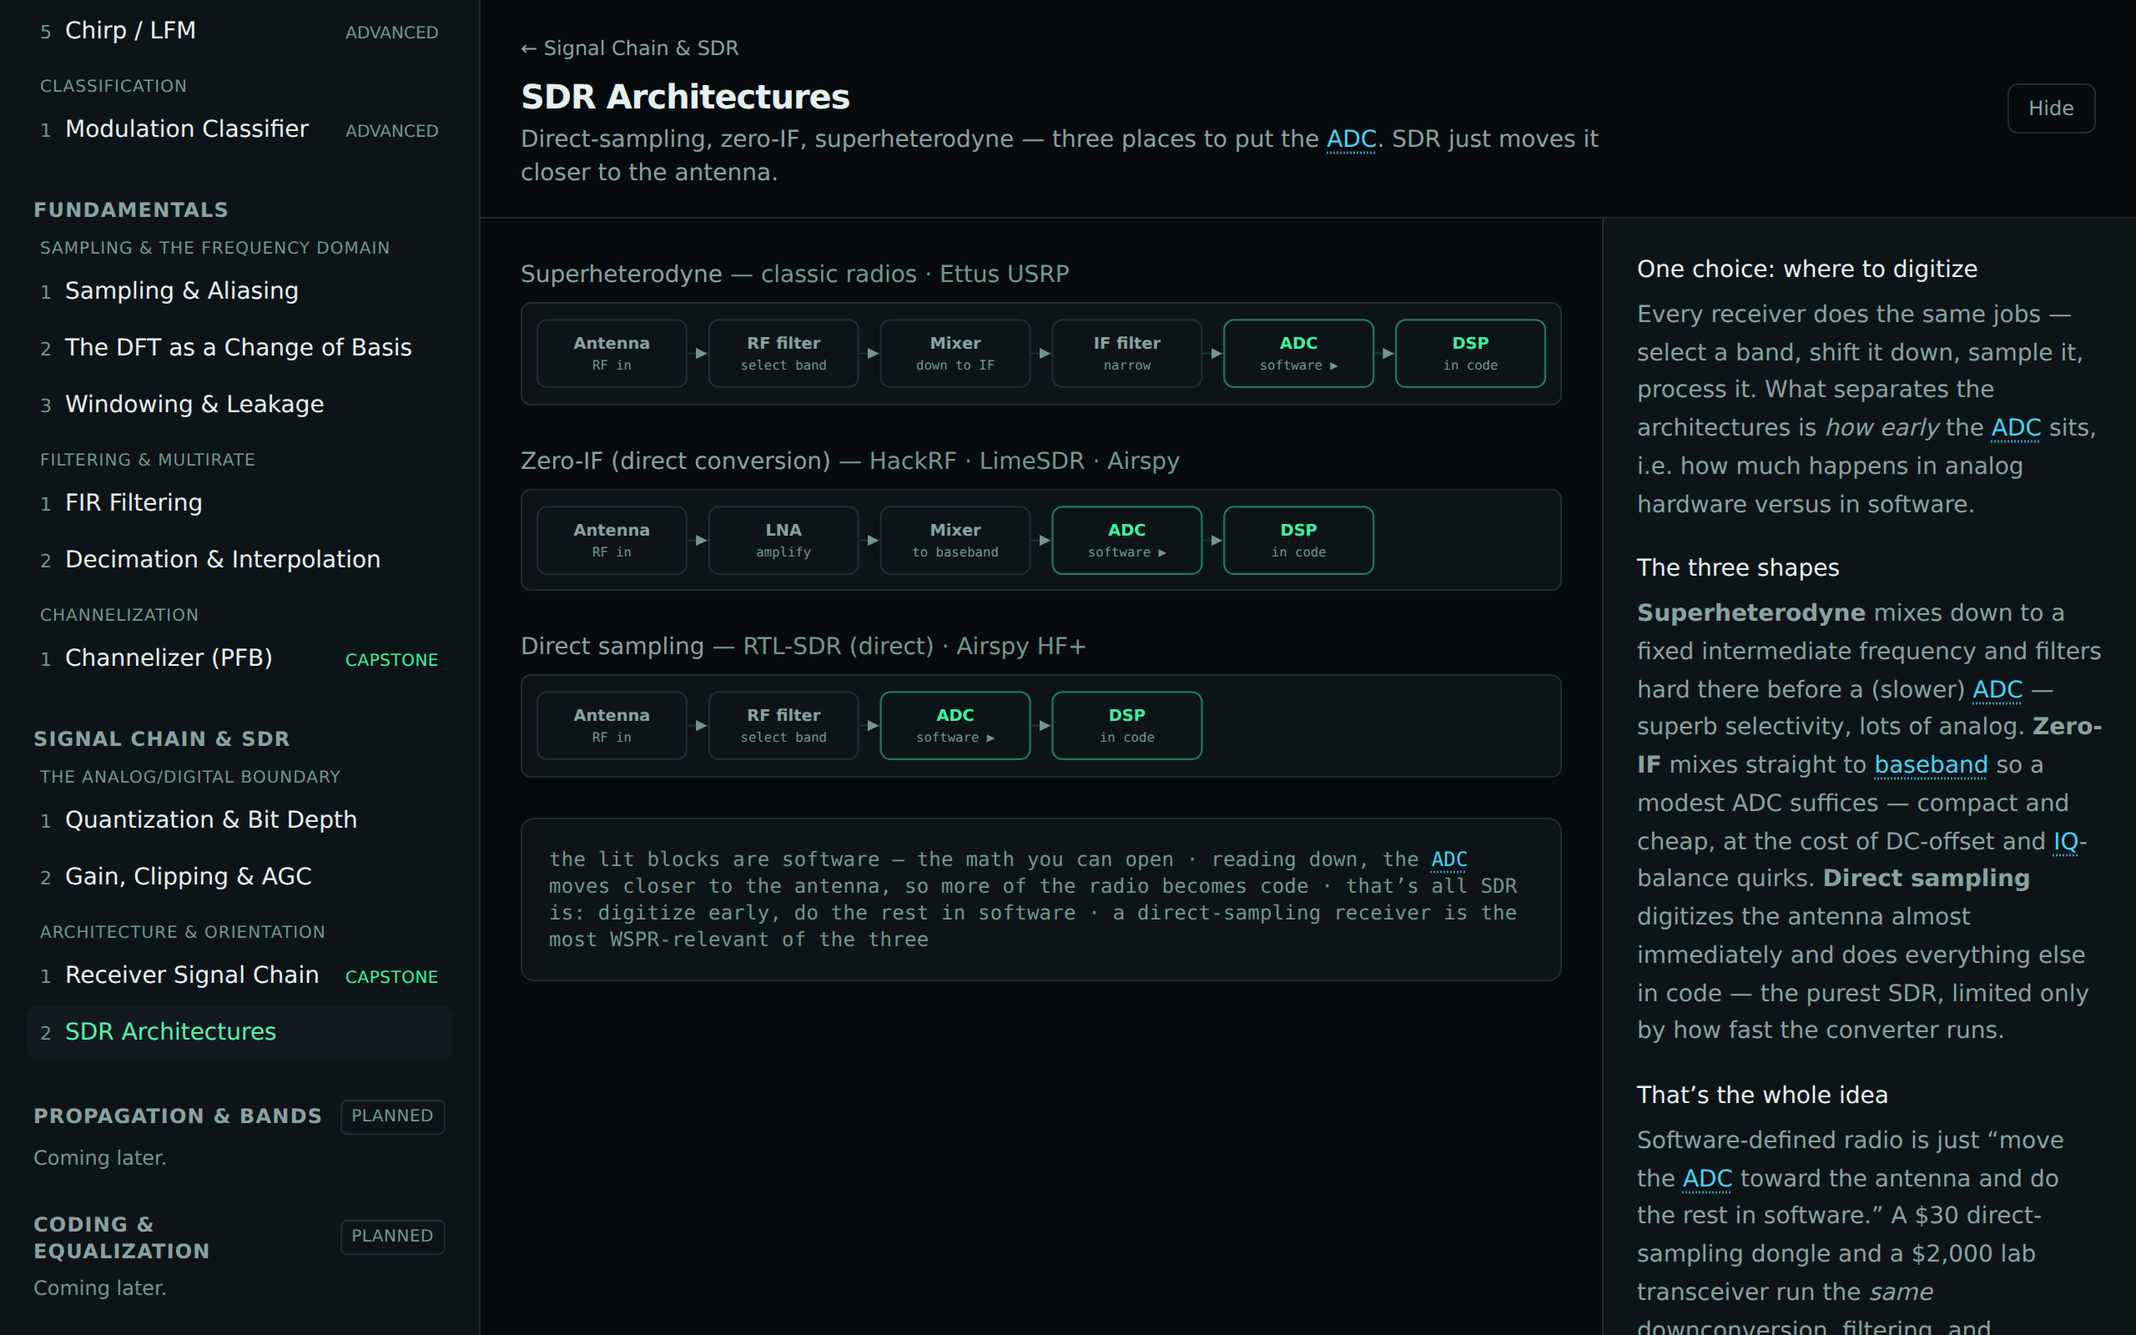
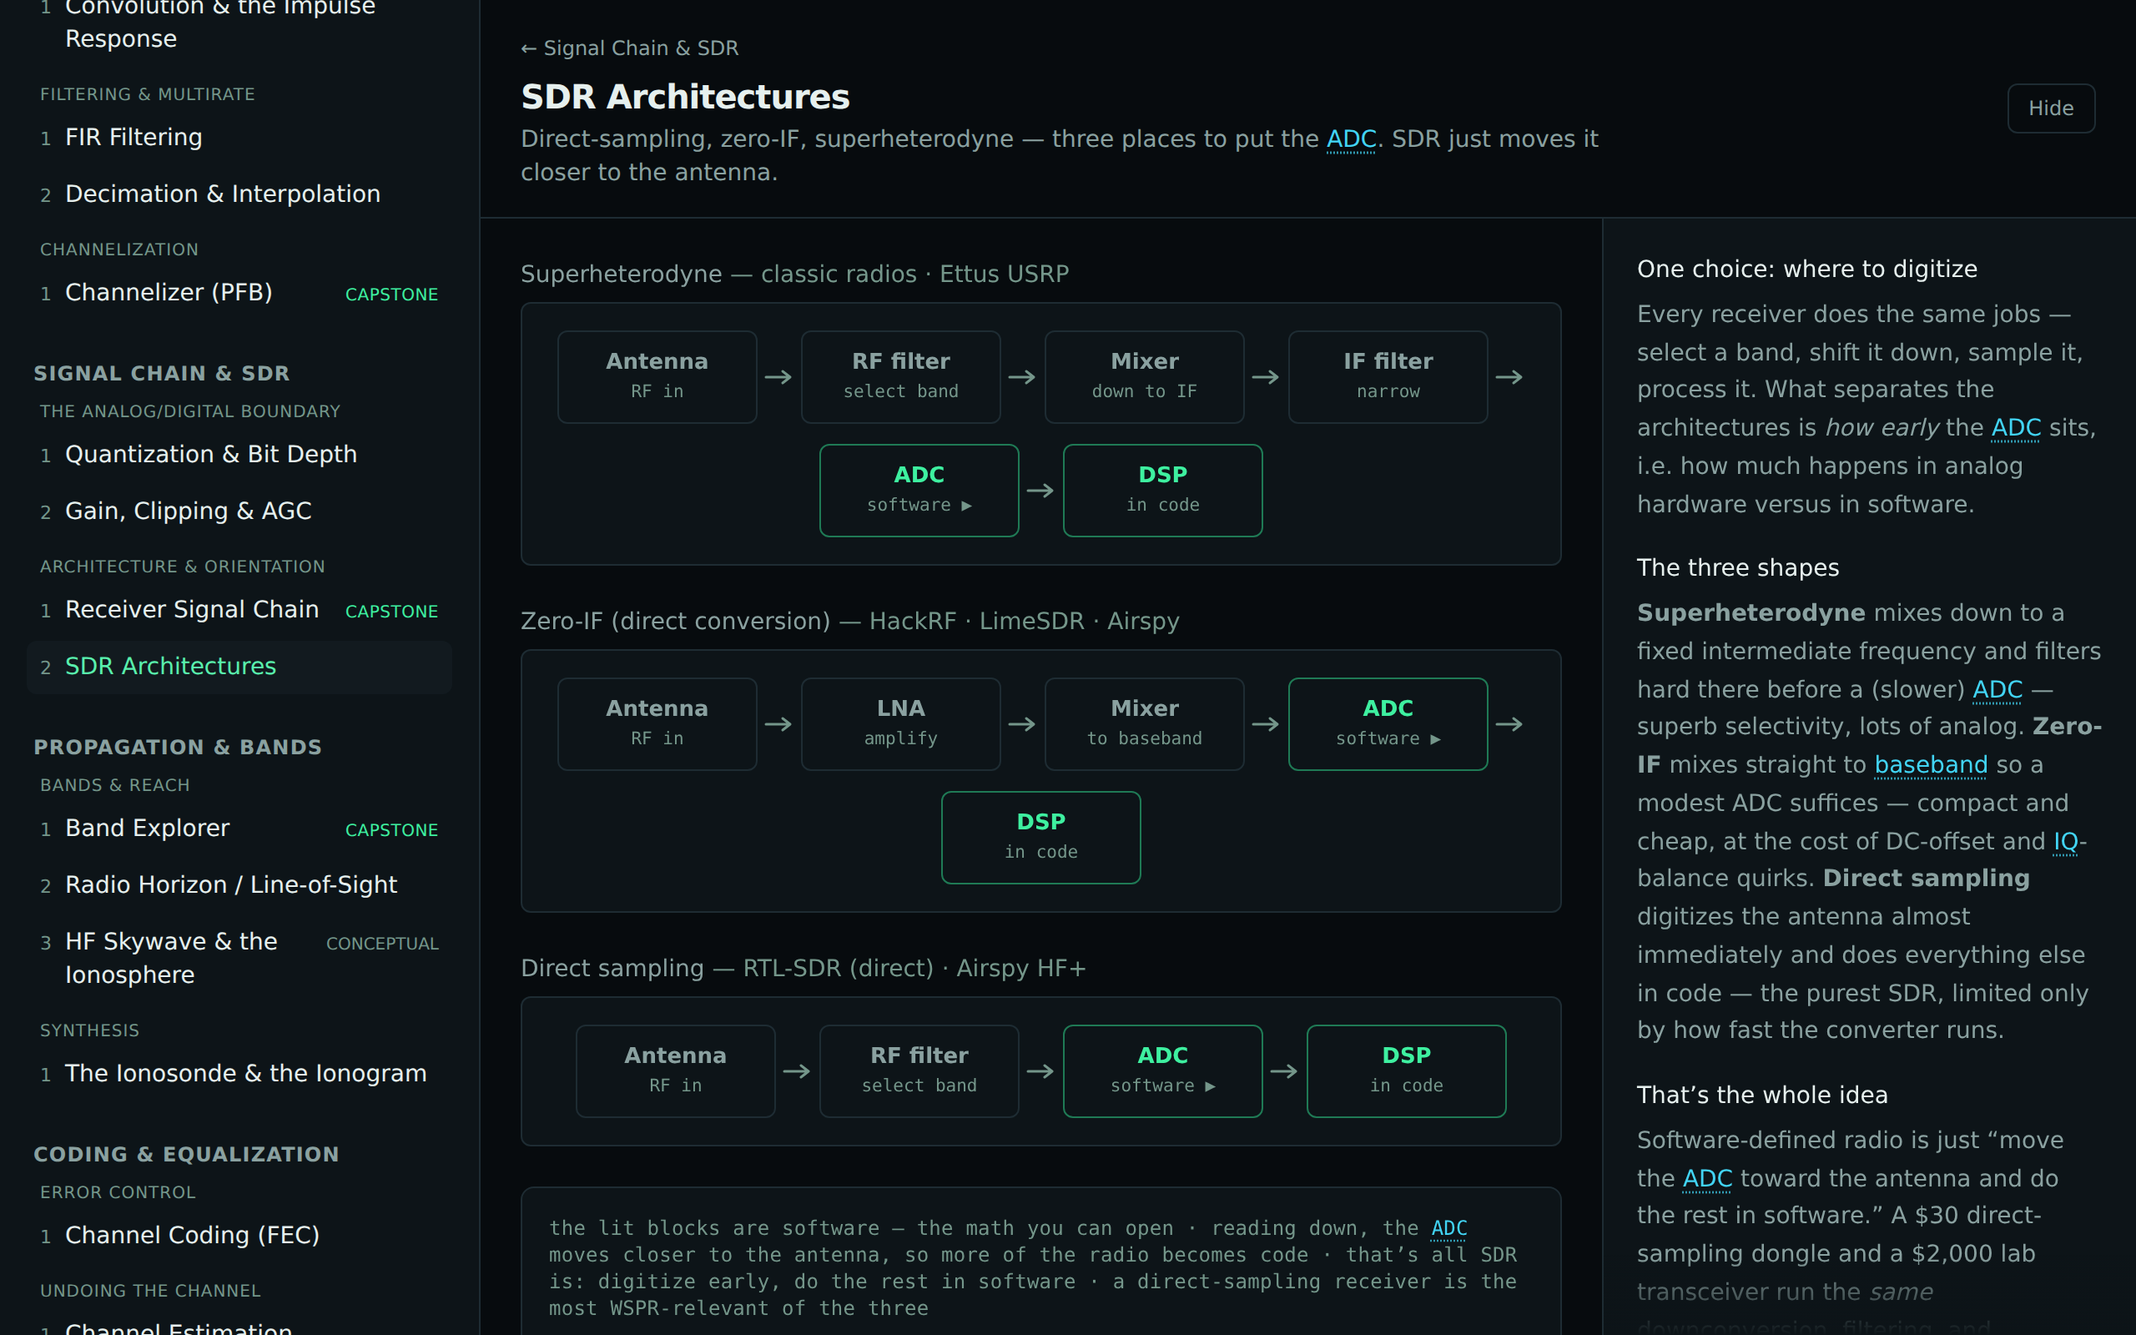
Wrap long block-diagram chains instead of shrinking them
A radio's signal chain is most readable as one left-to-right row, but the
8-box receive chain (Antenna → … → Demod) didn't have room for that on
anything but a wide screen: the diagram was a fixed-viewBox SVG scaled to
fit its column, so a narrow column shrank the whole thing — boxes and
two-line labels ("Channelizer / split band") alike — until it was cramped.

Teach the shared BlockDiagram renderer to wrap instead. The chain is now a
flow of comfortable, fixed-width blocks that stays a single clean row when
the column is wide enough and breaks onto further rows when it isn't, so the
boxes hold a readable minimum width at any width rather than scaling toward
illegible. Right-pointing flow arrows between blocks carry the reading across
a wrap (the standard block-diagram idiom — flow continues on the next row),
so the row can break without ever resorting to a horizontal scroll.

The fix lives in the shared renderer, so both the Receiver Signal Chain
(the 8-box worst case) and SDR Architectures benefit and stay consistent.
Labels, the lit-vs-grey semantics, and click-to-open behavior are unchanged;
the linear chain is now expressed as an ordered list of blocks. Screenshots
regenerated for the two diagrams whose layout actually changed.

Claude-Session: https://claude.ai/code/session_01P37fCFxA8pmtvGiGn2UdfE

diff --git a/src/components/BlockDiagram.tsx b/src/components/BlockDiagram.tsx
@@ -1,156 +1,110 @@
-import { useMemo, useState } from 'react';
+import { Fragment } from 'react';
 import { getModule } from '@/registry';
 import { useAppStore } from '@/store/appStore';
-import { colors } from '@/design/tokens';
 
-export interface DiagramNode {
+export interface DiagramBlock {
   id: string;
   /** Short block name (e.g. "Mixer"). */
   label: string;
-  /** What it maps to in software (e.g. "downconversion") — the second line. */
+  /** What it maps to in software (e.g. "downconvert") — the second line. */
   sub?: string;
   /** Registry id of the module this block routes to. Omit (or an unregistered id) → a quiet,
    *  non-interactive "no software counterpart / not built yet" block. */
   moduleId?: string;
-  /** Top-left position + size in viewBox units. */
-  x: number;
-  y: number;
-  w?: number;
-  h?: number;
-}
-
-export interface DiagramEdge {
-  from: string;
-  to: string;
 }
 
 export interface BlockDiagramProps {
-  nodes: DiagramNode[];
-  edges: DiagramEdge[];
-  /** viewBox dimensions; the SVG scales to its container width. */
-  width: number;
-  height: number;
+  /** The chain in left-to-right order; a flow arrow is drawn between each block and the next. */
+  blocks: DiagramBlock[];
   ariaLabel: string;
 }
 
-const NW = 116;
-const NH = 54;
-
 /**
- * An interactive "boxes and wires" block diagram. Each node can route to the registry module that
+ * An interactive "boxes and wires" block diagram. Each block can route to the registry module that
  * simulates its function — so a hardware/orientation learner can click a block (mixer, ADC, filter…)
- * and land in the math behind it. Linked blocks read as pressable controls (accent, grab-attention
- * hover, keyboard focus, pointer cursor) per the affordance language; blocks with no software
- * counterpart yet (or a not-built track) stay quiet and inert. Reusable as an app-wide orientation
- * map — hence generic over its nodes/edges rather than baking in one chain.
+ * and land in the math behind it. Linked blocks read as pressable controls (accent, hover, keyboard
+ * focus, pointer cursor) per the affordance language; blocks with no software counterpart yet (or a
+ * not-built track) stay quiet and inert. Reusable as an app-wide orientation map — hence generic
+ * over its blocks rather than baking in one chain.
+ *
+ * Layout: a flow of comfortable, fixed-width blocks that **wraps responsively** — one clean row when
+ * the chain fits the container, breaking onto further rows when it doesn't. Each block keeps a
+ * minimum readable width rather than shrinking to fit, so a long chain (the 8-box receive chain)
+ * stays legible at any width. The right-pointing arrows between blocks carry the left-to-right
+ * reading across a wrap (the standard block-diagram idiom — flow continues on the next row), so the
+ * row can break without ever needing a horizontal scroll.
  */
-export function BlockDiagram({ nodes, edges, width, height, ariaLabel }: BlockDiagramProps) {
+export function BlockDiagram({ blocks, ariaLabel }: BlockDiagramProps) {
   const setActiveModule = useAppStore((s) => s.setActiveModule);
-  const [hover, setHover] = useState<string | null>(null);
-  const byId = useMemo(() => new Map(nodes.map((n) => [n.id, n])), [nodes]);
 
-  const right = (n: DiagramNode) => ({ x: n.x + (n.w ?? NW), y: n.y + (n.h ?? NH) / 2 });
-  const left = (n: DiagramNode) => ({ x: n.x, y: n.y + (n.h ?? NH) / 2 });
+  // A comfortable, scale-aligned box: wide enough that a two-line label ("Channelizer" / "split
+  // band") never crowds, the same on every row. It holds this width and the chain wraps first; only
+  // a container too narrow for even one box lets it shrink (min-w-0 + break-words) rather than ever
+  // pushing a horizontal scrollbar.
+  const base =
+    'flex min-h-14 w-30 min-w-0 max-w-full flex-col items-center justify-center gap-0.5 rounded-md border px-2 py-2 text-center leading-tight break-words';
+  const lit =
+    'cursor-pointer border-signal-dim bg-surface text-signal transition-colors hover:border-signal hover:bg-surface-raised focus-visible:border-signal focus-visible:bg-surface-raised focus-visible:outline-none';
+  const quiet = 'border-border bg-surface text-text-muted';
 
   return (
-    <svg
-      viewBox={`0 0 ${width} ${height}`}
+    <div
       role="group"
       aria-label={ariaLabel}
-      className="w-full rounded-md border border-border bg-surface"
+      className="flex flex-wrap items-center justify-center gap-x-1 gap-y-3 rounded-md border border-border bg-surface p-4"
     >
-      <defs>
-        <marker id="bd-arrow" markerWidth="9" markerHeight="9" refX="7" refY="3" orient="auto">
-          <path d="M0,0 L6,3 L0,6 Z" fill={colors.textFaint} />
-        </marker>
-      </defs>
-
-      {edges.map((e) => {
-        const a = byId.get(e.from);
-        const b = byId.get(e.to);
-        if (!a || !b) return null;
-        const p0 = right(a);
-        const p1 = left(b);
-        const midX = (p0.x + p1.x) / 2;
-        // Elbow connector so cross-row wires read cleanly; a straight arrow when aligned.
-        const d = `M ${p0.x} ${p0.y} H ${midX} V ${p1.y} H ${p1.x}`;
-        return (
-          <path
-            key={`${e.from}-${e.to}`}
-            d={d}
-            fill="none"
-            stroke={colors.border}
-            strokeWidth={1.5}
-            markerEnd="url(#bd-arrow)"
-          />
-        );
-      })}
-
-      {nodes.map((n) => {
-        const w = n.w ?? NW;
-        const h = n.h ?? NH;
+      {blocks.map((n, i) => {
         const linked = Boolean(n.moduleId && getModule(n.moduleId));
-        const active = hover === n.id;
-        const stroke = linked ? (active ? colors.signal : colors.signalDim) : colors.border;
-        const fill = linked && active ? colors.surfaceRaised : colors.surface;
-        const labelColor = linked ? colors.signal : colors.textMuted;
-
         const go = () => linked && n.moduleId && setActiveModule(n.moduleId);
 
+        const content = (
+          <>
+            <span className="text-[13px] font-semibold">{n.label}</span>
+            {n.sub && <span className="font-mono text-[10.5px] text-text-faint">{n.sub}</span>}
+          </>
+        );
+
         return (
-          <g
-            key={n.id}
-            transform={`translate(${n.x} ${n.y})`}
-            role={linked ? 'button' : undefined}
-            tabIndex={linked ? 0 : undefined}
-            aria-label={linked ? `${n.label} — open the ${n.label} module` : n.label}
-            className={linked ? 'cursor-pointer outline-none' : undefined}
-            onClick={go}
-            onKeyDown={(ev) => {
-              if (linked && (ev.key === 'Enter' || ev.key === ' ')) {
-                ev.preventDefault();
-                go();
-              }
-            }}
-            onMouseEnter={() => linked && setHover(n.id)}
-            onMouseLeave={() => setHover((cur) => (cur === n.id ? null : cur))}
-            onFocus={() => linked && setHover(n.id)}
-            onBlur={() => setHover((cur) => (cur === n.id ? null : cur))}
-          >
-            <rect
-              width={w}
-              height={h}
-              rx={8}
-              fill={fill}
-              stroke={stroke}
-              strokeWidth={active ? 2 : 1.5}
-            />
-            <text
-              x={w / 2}
-              y={n.sub ? h / 2 - 4 : h / 2 + 4}
-              textAnchor="middle"
-              fontSize={13}
-              fontWeight={600}
-              fill={labelColor}
-              style={{ fontFamily: 'Inter, system-ui, sans-serif' }}
-            >
-              {n.label}
-            </text>
-            {n.sub && (
-              <text
-                x={w / 2}
-                y={h / 2 + 13}
-                textAnchor="middle"
-                fontSize={10.5}
-                fill={colors.textFaint}
-                style={{ fontFamily: 'JetBrains Mono, monospace' }}
+          <Fragment key={n.id}>
+            {linked ? (
+              <button
+                type="button"
+                aria-label={`${n.label} — open the ${n.label} module`}
+                onClick={go}
+                className={`${base} ${lit}`}
               >
-                {n.sub}
-              </text>
+                {content}
+              </button>
+            ) : (
+              <div className={`${base} ${quiet}`}>{content}</div>
             )}
-          </g>
+            {i < blocks.length - 1 && <FlowArrow />}
+          </Fragment>
         );
       })}
+    </div>
+  );
+}
+
+/** A right-pointing flow arrow between two blocks — the connective tissue that keeps the chain
+ *  reading left-to-right across a wrap. Decorative: the order is conveyed by the block sequence. */
+function FlowArrow() {
+  return (
+    <svg
+      aria-hidden="true"
+      width="18"
+      height="10"
+      viewBox="0 0 18 10"
+      className="shrink-0 self-center text-text-faint"
+    >
+      <path
+        d="M1 5 H15 M11 1.5 L15.5 5 L11 8.5"
+        fill="none"
+        stroke="currentColor"
+        strokeWidth="1.5"
+        strokeLinecap="round"
+        strokeLinejoin="round"
+      />
     </svg>
   );
 }

diff --git a/src/modules/signal-chain-sdr/signal-chain/SignalChainModule.tsx b/src/modules/signal-chain-sdr/signal-chain/SignalChainModule.tsx
@@ -1,22 +1,10 @@
-import { BlockDiagram, type DiagramEdge, type DiagramNode } from '@/components/BlockDiagram';
+import { BlockDiagram, type DiagramBlock } from '@/components/BlockDiagram';
 import { GlossedText } from '@/components/GlossedText';
 import { PlotTitle } from '@/components/plots/PlotTitle';
 
-// One row of evenly-spaced blocks; the viewBox holds 8 so receive and transmit share a block size.
-const X0 = 12;
-const PITCH = 138;
-const BW = 120;
-const VIEW_W = X0 + 7 * PITCH + BW + X0;
-const VIEW_H = 80;
-const xAt = (i: number) => X0 + i * PITCH;
-const row = (defs: Omit<DiagramNode, 'x' | 'y' | 'w'>[]): DiagramNode[] =>
-  defs.map((d, i) => ({ ...d, x: xAt(i), y: 13, w: BW }));
-const chain = (nodes: DiagramNode[]): DiagramEdge[] =>
-  nodes.slice(1).map((n, i) => ({ from: nodes[i].id, to: n.id }));
-
 // Receive: antenna → low-noise amp → RF filter → mixer (tune) → AGC → ADC → channelizer → demod.
 // LNA has no software counterpart (amplifier internals are out of scope) — it stays a quiet block.
-const RX = row([
+const RX: DiagramBlock[] = [
   { id: 'ant-rx', label: 'Antenna', sub: 'receive side', moduleId: 'phase-difference' },
   { id: 'lna', label: 'LNA', sub: 'amplify' },
   { id: 'rf-filter', label: 'RF filter', sub: 'FIR filter', moduleId: 'fir-filter' },
@@ -25,17 +13,17 @@ const RX = row([
   { id: 'adc', label: 'ADC', sub: 'quantize', moduleId: 'quantization' },
   { id: 'chan', label: 'Channelizer', sub: 'split band', moduleId: 'channelizer' },
   { id: 'demod', label: 'Demod', sub: 'recover bits', moduleId: 'send-a-message' },
-]);
+];
 
 // Transmit mirror: modulator → DAC → up-converter → power amp → filter → antenna.
-const TX = row([
+const TX: DiagramBlock[] = [
   { id: 'mod', label: 'Modulator', sub: 'bits → symbols', moduleId: 'symbol-mapping' },
   { id: 'dac', label: 'DAC', sub: 'samples → wave', moduleId: 'quantization' },
   { id: 'upconv', label: 'Up-converter', sub: 'to RF', moduleId: 'upconversion' },
   { id: 'pa', label: 'PA', sub: 'power amp' },
   { id: 'tx-filter', label: 'Filter', sub: 'FIR filter', moduleId: 'fir-filter' },
   { id: 'ant-tx', label: 'Antenna', sub: 'transmit', moduleId: 'phase-difference' },
-]);
+];
 
 /**
  * Receiver signal chain (Track F capstone). The whole point of the track: every box in a real radio
@@ -53,10 +41,7 @@ export function SignalChainModule() {
           Receive chain <span className="text-text-faint">— antenna to bits</span>
         </PlotTitle>
         <BlockDiagram
-          nodes={RX}
-          edges={chain(RX)}
-          width={VIEW_W}
-          height={VIEW_H}
+          blocks={RX}
           ariaLabel="Receive signal chain: antenna, LNA, RF filter, mixer, AGC, ADC, channelizer, demodulator"
         />
       </div>
@@ -66,10 +51,7 @@ export function SignalChainModule() {
           Transmit chain <span className="text-text-faint">— bits to antenna (the mirror)</span>
         </PlotTitle>
         <BlockDiagram
-          nodes={TX}
-          edges={chain(TX)}
-          width={VIEW_W}
-          height={VIEW_H}
+          blocks={TX}
           ariaLabel="Transmit signal chain: modulator, DAC, up-converter, power amplifier, filter, antenna"
         />
       </div>

diff --git a/src/modules/signal-chain-sdr/sdr-architectures/SdrModule.tsx b/src/modules/signal-chain-sdr/sdr-architectures/SdrModule.tsx
@@ -1,56 +1,45 @@
-import { BlockDiagram, type DiagramEdge, type DiagramNode } from '@/components/BlockDiagram';
+import { BlockDiagram, type DiagramBlock } from '@/components/BlockDiagram';
 import { GlossedText } from '@/components/GlossedText';
 import { PlotTitle } from '@/components/plots/PlotTitle';
 
-const X0 = 12;
-const PITCH = 138;
-const BW = 120;
-const VIEW_W = X0 + 5 * PITCH + BW + X0; // a 6-block row; shorter chains left-align
-const VIEW_H = 80;
-const xAt = (i: number) => X0 + i * PITCH;
-const row = (defs: Omit<DiagramNode, 'x' | 'y' | 'w'>[]): DiagramNode[] =>
-  defs.map((d, i) => ({ ...d, x: xAt(i), y: 13, w: BW }));
-const chain = (nodes: DiagramNode[]): DiagramEdge[] =>
-  nodes.slice(1).map((n, i) => ({ from: nodes[i].id, to: n.id }));
-
 // The lit (linked) blocks are the digital ones — the software region. Across the three rows the ADC
 // marches toward the antenna: that *is* SDR. Analog blocks stay quiet stubs.
-const ARCHITECTURES = [
+const ARCHITECTURES: { id: string; name: string; examples: string; blocks: DiagramBlock[] }[] = [
   {
     id: 'superhet',
     name: 'Superheterodyne',
     examples: 'classic radios · Ettus USRP',
-    nodes: row([
+    blocks: [
       { id: 'ant', label: 'Antenna', sub: 'RF in' },
       { id: 'rf', label: 'RF filter', sub: 'select band' },
       { id: 'mix', label: 'Mixer', sub: 'down to IF' },
       { id: 'if', label: 'IF filter', sub: 'narrow' },
       { id: 'adc', label: 'ADC', sub: 'software ▶', moduleId: 'quantization' },
       { id: 'dsp', label: 'DSP', sub: 'in code', moduleId: 'channelizer' },
-    ]),
+    ],
   },
   {
     id: 'zero-if',
     name: 'Zero-IF (direct conversion)',
     examples: 'HackRF · LimeSDR · Airspy',
-    nodes: row([
+    blocks: [
       { id: 'ant', label: 'Antenna', sub: 'RF in' },
       { id: 'lna', label: 'LNA', sub: 'amplify' },
       { id: 'mix', label: 'Mixer', sub: 'to baseband' },
       { id: 'adc', label: 'ADC', sub: 'software ▶', moduleId: 'quantization' },
       { id: 'dsp', label: 'DSP', sub: 'in code', moduleId: 'channelizer' },
-    ]),
+    ],
   },
   {
     id: 'direct',
     name: 'Direct sampling',
     examples: 'RTL-SDR (direct) · Airspy HF+',
-    nodes: row([
+    blocks: [
       { id: 'ant', label: 'Antenna', sub: 'RF in' },
       { id: 'rf', label: 'RF filter', sub: 'select band' },
       { id: 'adc', label: 'ADC', sub: 'software ▶', moduleId: 'quantization' },
       { id: 'dsp', label: 'DSP', sub: 'in code', moduleId: 'channelizer' },
-    ]),
+    ],
   },
 ];
 
@@ -69,11 +58,8 @@ export function SdrModule() {
             {a.name} <span className="text-text-faint">— {a.examples}</span>
           </PlotTitle>
           <BlockDiagram
-            nodes={a.nodes}
-            edges={chain(a.nodes)}
-            width={VIEW_W}
-            height={VIEW_H}
-            ariaLabel={`${a.name} architecture: ${a.nodes.map((n) => n.label).join(', ')}`}
+            blocks={a.blocks}
+            ariaLabel={`${a.name} architecture: ${a.blocks.map((n) => n.label).join(', ')}`}
           />
         </div>
       ))}
